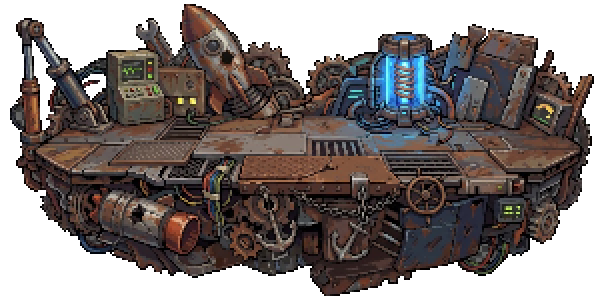
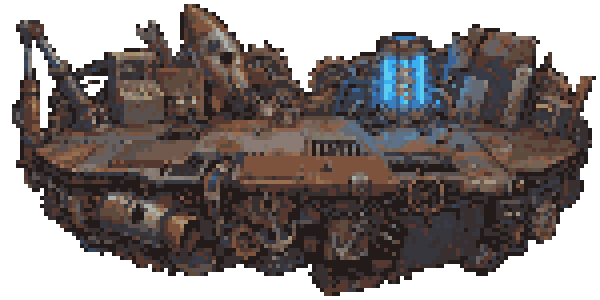
art: pixelize Stage 1 into 4x4 blocks with a 32-color palette

Changed region(s): [[0.0, 0.0, 1.0, 0.99]]

diff --git a/tools/PixelAuthor/PixelStage.cs b/tools/PixelAuthor/PixelStage.cs
@@ -7,7 +7,7 @@ public static partial class Program
 {
     static void BuildPixelStage()
     {
-        const string master="art/stages/stage_1.pixel.json",file="art/stages/stage_1.pixelized.pixel.json";
+        const string master="art/stages/stage_1.pixel.json",file="art/stages/stage_1.coarse.pixel.json";
         Console.WriteLine(RunPix("validate",master,"--json"));
         RunPix("render",master,"--frame","stage","--out","art/work/stage-master.png");
         StageBridge("""
@@ -20,9 +20,9 @@ public static partial class Program
         const {pixelizeBuffer}=require(bundle),master=PNG.sync.read(fs.readFileSync('art/work/stage-master.png'));
         const input=new PNG({width:900,height:450});input.data.fill(0);
         for(let y=0;y<448;y++)master.data.copy(input.data,((y+1)*900+6)*4,y*888*4,(y+1)*888*4);
-        const settings={pixelSize:3,offsetX:0,offsetY:0,samplingMode:'medoid'};
+        const settings={pixelSize:6,offsetX:0,offsetY:0,samplingMode:'medoid'};
         const result=pixelizeBuffer({width:900,height:450,data:new Uint8ClampedArray(input.data)},settings);
-        if(result.width!==300||result.height!==150||result.passthrough)throw Error('Pixelizer did not reduce the stage');
+        if(result.width!==150||result.height!==75||result.passthrough)throw Error('Pixelizer did not reduce the stage');
         const pixels=Buffer.from(result.data);
         for(let i=0;i<pixels.length;i+=4){if(pixels[i+3]!==0&&pixels[i+3]!==255)throw Error('Partial alpha');if(!pixels[i+3])pixels.fill(0,i,i+4);}
         fs.writeFileSync('art/work/stage-low.rgba',pixels);
@@ -30,10 +30,14 @@ public static partial class Program
         fs.writeFileSync('art/stages/STAGE_1_PIXELIZATION.json',JSON.stringify({tool:'Pixelloid',
             revision:cp.execFileSync('git',['-C',checkout,'rev-parse','HEAD'],{encoding:'utf8'}).trim(),settings,
             reference:'reference_pics/stage_1.jpg',input:[900,450],padding:{left:6,top:1,right:6,bottom:1},
-            output:[300,150],displayScale:2,passthrough:false,inputRgbaSha256:sha(input.data),outputRgbaSha256:sha(pixels)},null,2)+'\n');
+            output:[150,75],displayScale:4,passthrough:false,inputRgbaSha256:sha(input.data),outputRgbaSha256:sha(pixels)},null,2)+'\n');
         """);
-        byte[] rgba=File.ReadAllBytes("art/work/stage-low.rgba");
-        var palette=new Dictionary<string,string>();var cells=new string?[300*150];
+        byte[] rgba=QuantizeStage(File.ReadAllBytes("art/work/stage-low.rgba"));
+        var report=JsonNode.Parse(File.ReadAllText("art/stages/STAGE_1_PIXELIZATION.json"))!;
+        report["quantization"]=JsonSerializer.SerializeToNode(new{method="deterministic weighted median-cut",opaqueColors=32,dithering=false});
+        report["quantizedRgbaSha256"]=Convert.ToHexString(System.Security.Cryptography.SHA256.HashData(rgba)).ToLowerInvariant();
+        Save("art/stages/STAGE_1_PIXELIZATION.json",report);
+        var palette=new Dictionary<string,string>();var cells=new string?[150*75];
         for(int i=0;i<cells.Length;i++)if(rgba[i*4+3]!=0)
         {
             string hex=$"{rgba[i*4]:x2}{rgba[i*4+1]:x2}{rgba[i*4+2]:x2}";
@@ -41,7 +45,7 @@ public static partial class Program
         }
         if(!File.Exists(file))
         {
-            var project=Project("stage_pixel",300,150,["stage"]);
+            var project=Project("stage_pixel",150,75,["stage"]);
             project["palette"]=JsonSerializer.SerializeToNode(palette.Select(p=>new{id=p.Key,name=p.Key,color=p.Value}));
             File.WriteAllText(file,project.ToJsonString());
         }
@@ -51,49 +55,51 @@ public static partial class Program
         foreach(var f in source["characters"]![0]!["views"]![0]!["frames"]!.AsArray())
             ops.Add(new{type="removeFrame",characterId="stage_pixel",viewId="right",frameId=f!["id"]!.GetValue<string>()});
         ops.Add(new{type="addFrame",characterId="stage_pixel",viewId="right",frame=new{id="stage",name="Pixel scrapyard",durationTicks=1,
-            cels=new{stage=new{grid=new{width=300,height=150,cells},offset=new{x=0,y=0}}}}});
+            cels=new{stage=new{grid=new{width=150,height=75,cells},offset=new{x=0,y=0}}}}});
         Save("art/work/stage-pixel.operations.json",ops);
         Console.WriteLine(RunPix("apply",file,"--operations","art/work/stage-pixel.operations.json","--expected-hash",ProjectHash(file)));
         Console.WriteLine(RunPix("validate",file,"--json"));
         RunPix("render",file,"--frame","stage","--out","art/previews/stage-logical.png");
-        RunPix("render",file,"--frame","stage","--scale","2","--out","art/exports/stages/stage_1.png");
-        RunPix("render",file,"--frame","stage","--scale","2","--out","art/previews/stage_1.png");
-        // Original deck endpoints mapped through padding, /3 sampling and exact 2x export.
+        RunPix("render",file,"--frame","stage","--scale","4","--out","art/exports/stages/stage_1.png");
+        RunPix("render",file,"--frame","stage","--scale","4","--out","art/previews/stage_1.png");
+        // Preserve the established display-space collision and placement.
         Save("art/stages/stage_1.layout.json",new{reference="reference_pics/stage_1.jpg",
             crop=new{x=0,y=0,width=600,height=300},position=new{x=180,y=186},
             surface=new[]{new[]{34,148},new[]{582,148}},collisionDepth=14,spawn=new{x=480,y=334},
-            notes="Display-pixel coordinates: flat invisible surface at reference row 294 across the widest deck section. Stage artwork is 300x150 logical pixels exported at 2x."});
+            notes="Display-pixel coordinates: flat invisible surface at reference row 294 across the widest deck section. Stage artwork is 150x75 logical pixels exported at 4x."});
         File.WriteAllText(file,JsonNode.Parse(File.ReadAllText(file))!.ToJsonString()+"\n");
     }
 
     static void VerifyPixelStage()
     {
-        Console.WriteLine(RunPix("validate","art/stages/stage_1.pixelized.pixel.json","--json"));
+        Console.WriteLine(RunPix("validate","art/stages/stage_1.coarse.pixel.json","--json"));
         StageBridge("""
         const fs=require('fs'),path=require('path'),cp=require('child_process'),crypto=require('crypto');
         const {PNG}=require(path.join(path.dirname(process.argv[1]),'../../../node_modules/pngjs'));
-        cp.execFileSync('git',['diff','--exit-code','440eef7','--','art/parts','art/draw','art/palette.json',
+        cp.execFileSync('git',['diff','--exit-code','df557a2','--','art/parts','art/draw','art/palette.json',
             'art/soldier.pixel.json','art/poses.json','art/fight-effects.pixel.json','art/exports/layers','art/exports/animations',
-            'art/exports/effects','game/assets/soldier_frames','game/assets/soldier_effects','game/scripts/Soldier.cs','game/scenes/soldier.tscn',
+            'art/exports/effects','game/assets/soldier_frames','game/assets/soldier_effects','game/scenes/soldier.tscn',
             'art/stages/stage_1.pixel.json']);
         const sha=b=>crypto.createHash('sha256').update(b).digest('hex');
         const images=['art/exports/stages/stage_1.png','art/pixelloid/stages/stage_1.png','game/assets/stage/stage_1.png'].map(p=>PNG.sync.read(fs.readFileSync(p)));
         const img=images[0],low=PNG.sync.read(fs.readFileSync('art/previews/stage-logical.png'));
         if(images.some(p=>p.width!==600||p.height!==300||sha(p.data)!==sha(img.data)))throw Error('Stage size/import mismatch');
         const pixelization=JSON.parse(fs.readFileSync('art/stages/STAGE_1_PIXELIZATION.json'));
-        if(pixelization.passthrough||pixelization.settings.pixelSize!==3||sha(low.data)!==pixelization.outputRgbaSha256)throw Error('Missing real pixelization');
+        if(pixelization.passthrough||pixelization.settings.pixelSize!==6||sha(low.data)!==pixelization.quantizedRgbaSha256)throw Error('Missing real pixelization');
         for(let y=0;y<300;y++)for(let x=0;x<600;x++){
-            const i=(y*600+x)*4,j=(Math.floor(y/2)*300+Math.floor(x/2))*4;
-            for(let c=0;c<4;c++)if(img.data[i+c]!==low.data[j+c])throw Error('Broken 2x2 pixel block');
+            const i=(y*600+x)*4,j=(Math.floor(y/4)*150+Math.floor(x/4))*4;
+            for(let c=0;c<4;c++)if(img.data[i+c]!==low.data[j+c])throw Error('Broken 4x4 pixel block');
             if(img.data[i+3]!==0&&img.data[i+3]!==255)throw Error('Partial alpha');
         }
+        const colors=new Set();for(let i=0;i<low.data.length;i+=4)if(low.data[i+3])colors.add(low.data.subarray(i,i+3).toString('hex'));
+        if(colors.size!==32)throw Error('Expected 32 opaque stage colors');
         const layout=JSON.parse(fs.readFileSync('art/stages/stage_1.layout.json'));
         if(!fs.readFileSync('art/stages/stage_1.layout.json').equals(fs.readFileSync('game/assets/stage/stage_1.layout.json')))throw Error('Layout mismatch');
         if(layout.surface.length!==2||layout.surface.some(p=>p[1]+layout.position.y!==334))throw Error('Deck is not flat');
-        fs.writeFileSync('art/stages/STAGE_1_VERIFICATION.json',JSON.stringify({baseline:'440eef7',soldierAssetsAndControllerUnchanged:true,
-            masterPreserved:true,width:600,height:300,logicalWidth:300,logicalHeight:150,pixelBlockSize:2,actualPixelloidReduction:true,
+        fs.writeFileSync('art/stages/STAGE_1_VERIFICATION.json',JSON.stringify({baseline:'df557a2',soldierAssetsUnchanged:true,
+            masterPreserved:true,width:600,height:300,logicalWidth:150,logicalHeight:75,pixelBlockSize:4,opaqueColors:32,actualPixelloidReduction:true,
             exportPixelloidGameRgbaSha256:sha(img.data),deckLeft:214,deckRight:762,deckY:334,deckSections:1,sharedLayout:true},null,2)+'\n');
-        console.log('PASS: real Pixelloid reduction, exact 2x2 blocks, flat deck, matching imports and unchanged character assets/controller.');
+        console.log('PASS: real Pixelloid reduction, exact 4x4 blocks, flat deck, matching imports and unchanged character artwork.');
         """);
     }
 }

diff --git a/tools/PixelAuthor/StageQuantizer.cs b/tools/PixelAuthor/StageQuantizer.cs
@@ -1,0 +1,43 @@
+namespace PixelAuthor;
+
+public static partial class Program
+{
+    // Weighted median-cut with explicit ordering and nearest-palette assignment; no dithering.
+    static byte[] QuantizeStage(byte[] rgba)
+    {
+        var histogram=new SortedDictionary<int,int>();
+        for(int i=0;i<rgba.Length;i+=4)if(rgba[i+3]!=0)
+        {
+            int rgb=(rgba[i]<<16)|(rgba[i+1]<<8)|rgba[i+2];
+            histogram[rgb]=histogram.GetValueOrDefault(rgb)+1;
+        }
+        int Channel(int color,int channel)=>(color>>(16-channel*8))&255;
+        int Range(List<int> box,int channel)=>box.Max(c=>Channel(c,channel))-box.Min(c=>Channel(c,channel));
+        var boxes=new List<List<int>>{histogram.Keys.ToList()};
+        while(boxes.Count<32)
+        {
+            int index=Enumerable.Range(0,boxes.Count).Where(i=>boxes[i].Count>1)
+                .OrderByDescending(i=>Enumerable.Range(0,3).Max(c=>Range(boxes[i],c)))
+                .ThenByDescending(i=>boxes[i].Sum(c=>histogram[c])).ThenBy(i=>i).First();
+            var box=boxes[index];int axis=Enumerable.Range(0,3).OrderByDescending(c=>Range(box,c)).ThenBy(c=>c).First();
+            box=box.OrderBy(c=>Channel(c,axis)).ThenBy(c=>c).ToList();
+            int half=(box.Sum(c=>histogram[c])+1)/2,total=0,cut=0;
+            do{total+=histogram[box[cut++]];}while(total<half&&cut<box.Count-1);
+            cut=Math.Min(cut,box.Count-1);
+            boxes[index]=box.Take(cut).ToList();boxes.Add(box.Skip(cut).ToList());
+        }
+        var palette=boxes.Select(box=>{
+            long count=box.Sum(c=>(long)histogram[c]);
+            return Enumerable.Range(0,3).Select(channel=>(int)((box.Sum(c=>(long)Channel(c,channel)*histogram[c])+count/2)/count)).ToArray();
+        }).ToArray();
+        var map=histogram.Keys.ToDictionary(c=>c,c=>palette.Select((p,i)=>(p,i))
+            .OrderBy(v=>Enumerable.Range(0,3).Sum(channel=>Math.Pow(Channel(c,channel)-v.p[channel],2)))
+            .ThenBy(v=>v.i).First().p);
+        for(int i=0;i<rgba.Length;i+=4)if(rgba[i+3]!=0)
+        {
+            var p=map[(rgba[i]<<16)|(rgba[i+1]<<8)|rgba[i+2]];
+            for(int c=0;c<3;c++)rgba[i+c]=(byte)p[c];
+        }
+        return rgba;
+    }
+}
